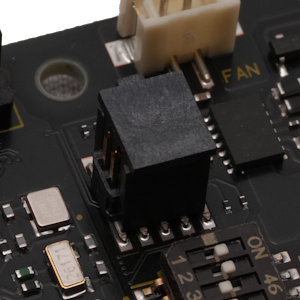
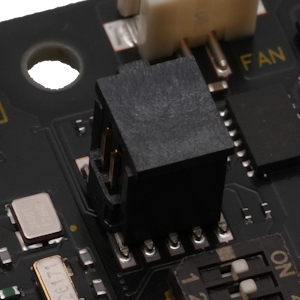
add pin layout

diff --git a/content/3/3-1/3-1-5/_index.md b/content/3/3-1/3-1-5/_index.md
@@ -6,7 +6,7 @@ weight: 50
 ---
 ## Connector (CN8, CN9) #
 
-![Connector_CAN-FD](images/CAN-FD_300x300.png)
+![Connector_CAN-FD](images/CAN-FD_300x300p.png)
 
 ### Connector type
 ピン・ヘッダー、3ピン、1.5mmピッチ

diff --git a/content/3/3-1/3-1-2/_index.md b/content/3/3-1/3-1-2/_index.md
@@ -10,7 +10,7 @@ weight: 20
 * CN14(MIPI CAM2)
 * CN15(MIPI CAM3)
 
-![Connector_CSI](images/CSI_300x300.png)
+![Connector_CSI](images/CSI_300x300p.png)
 
 ### Connector type
 FFC/FPCコネクタ、22ピン、0.5mmピッチ

diff --git a/content/3/3-1/3-1-1/_index.md b/content/3/3-1/3-1-1/_index.md
@@ -6,7 +6,7 @@ weight: 10
 ---
 ## Connector (CN6) #
 
-![Connector_GPIO](images/GPIO_300x300.png)
+![Connector_GPIO](images/GPIO_300x300p.png)
 
 ### Connector Type
 カラーピンヘッダ、2x20ピン、2.54mmピッチ

diff --git a/content/3/3-1/3-1-10/_index.md b/content/3/3-1/3-1-10/_index.md
@@ -6,7 +6,7 @@ weight: 100
 ---
 ## Connector (CN16) #
 
-![Connector_JTAG](images/JTAG_300x300.png)
+![Connector_JTAG](images/JTAG_300x300p.png)
 
 ### Connector type
 ピン・ヘッダー、2x5ピン、1.27mmピッチ

diff --git a/content/3/3-1/3-1-2/_index.en.md b/content/3/3-1/3-1-2/_index.en.md
@@ -10,7 +10,7 @@ weight: 20
 * CN14(MIPI CAM2)
 * CN15(MIPI CAM3)
 
-![Connector_CSI](images/CSI_300x300.png)
+![Connector_CSI](images/CSI_300x300p.png)
 
 ### Connector type
 FFC/FPC Connector, 22position, pitch 0.5mm

diff --git a/content/3/3-1/3-1-1/_index.en.md b/content/3/3-1/3-1-1/_index.en.md
@@ -6,7 +6,7 @@ weight: 10
 ---
 ## Connector (CN6) #
 
-![Connector_GPIO](images/GPIO_300x300.png)
+![Connector_GPIO](images/GPIO_300x300p.png)
 
 ### Connector Type
 Color coded pin header, 2x20position, pitch 2.54mm

diff --git a/content/3/3-1/3-1-14/_index.md b/content/3/3-1/3-1-14/_index.md
@@ -6,7 +6,7 @@ weight: 140
 ---
 ## Connector (CN3) #
 
-![Connector_PoE](images/PoE_300x300.png)
+![Connector_PoE](images/PoE_300x300p.png)
 
 ### Connector type
 ピン・ヘッダー、2x2ピン、2.54mmピッチ

diff --git a/content/3/3-1/3-1-4/_index.md b/content/3/3-1/3-1-4/_index.md
@@ -6,7 +6,7 @@ weight: 40
 ---
 ## Connector (CN13) #
 
-![Connector_PCIe](images/PCIe_300x300.png)
+![Connector_PCIe](images/PCIe_300x300p.png)
 
 ### Connector type
 FFC/FPCコネクタ、16ピン、0.5mmピッチ

diff --git a/content/3/3-1/3-1-5/_index.en.md b/content/3/3-1/3-1-5/_index.en.md
@@ -6,7 +6,7 @@ weight: 50
 ---
 ## Connector (CN8, CN9) #
 
-![Connector_CAN-FD](images/CAN-FD_300x300.png)
+![Connector_CAN-FD](images/CAN-FD_300x300p.png)
 
 ### Connector type
 Pin Header, 3position, pitch 1.5mm

diff --git a/content/3/3-1/3-1-12/_index.md b/content/3/3-1/3-1-12/_index.md
@@ -6,7 +6,7 @@ weight: 120
 ---
 ## Connector (CN7) #
 
-![Connector_FAN](images/FAN_300x300.png)
+![Connector_FAN](images/FAN_300x300p.png)
 
 ### Connector type
 ピン・ヘッダー、2ピン、1.5mmピッチ

diff --git a/content/3/3-1/3-1-3/_index.md b/content/3/3-1/3-1-3/_index.md
@@ -6,7 +6,7 @@ weight: 30
 ---
 ## Connector (CN11) #
 
-![Connector_DSI](images/DSI_300x300.png)
+![Connector_DSI](images/DSI_300x300p.png)
 
 ### Connector type
 FFC/FPCコネクタ、22ピン、0.5mmピッチ

diff --git a/content/3/3-1/3-1-4/_index.en.md b/content/3/3-1/3-1-4/_index.en.md
@@ -6,7 +6,7 @@ weight: 40
 ---
 ## Connector (CN13) #
 
-![Connector_PCIe](images/PCIe_300x300.png)
+![Connector_PCIe](images/PCIe_300x300p.png)
 
 ### Connector type
 FFC/FPC Connector, 16position pitch 0.5mm
